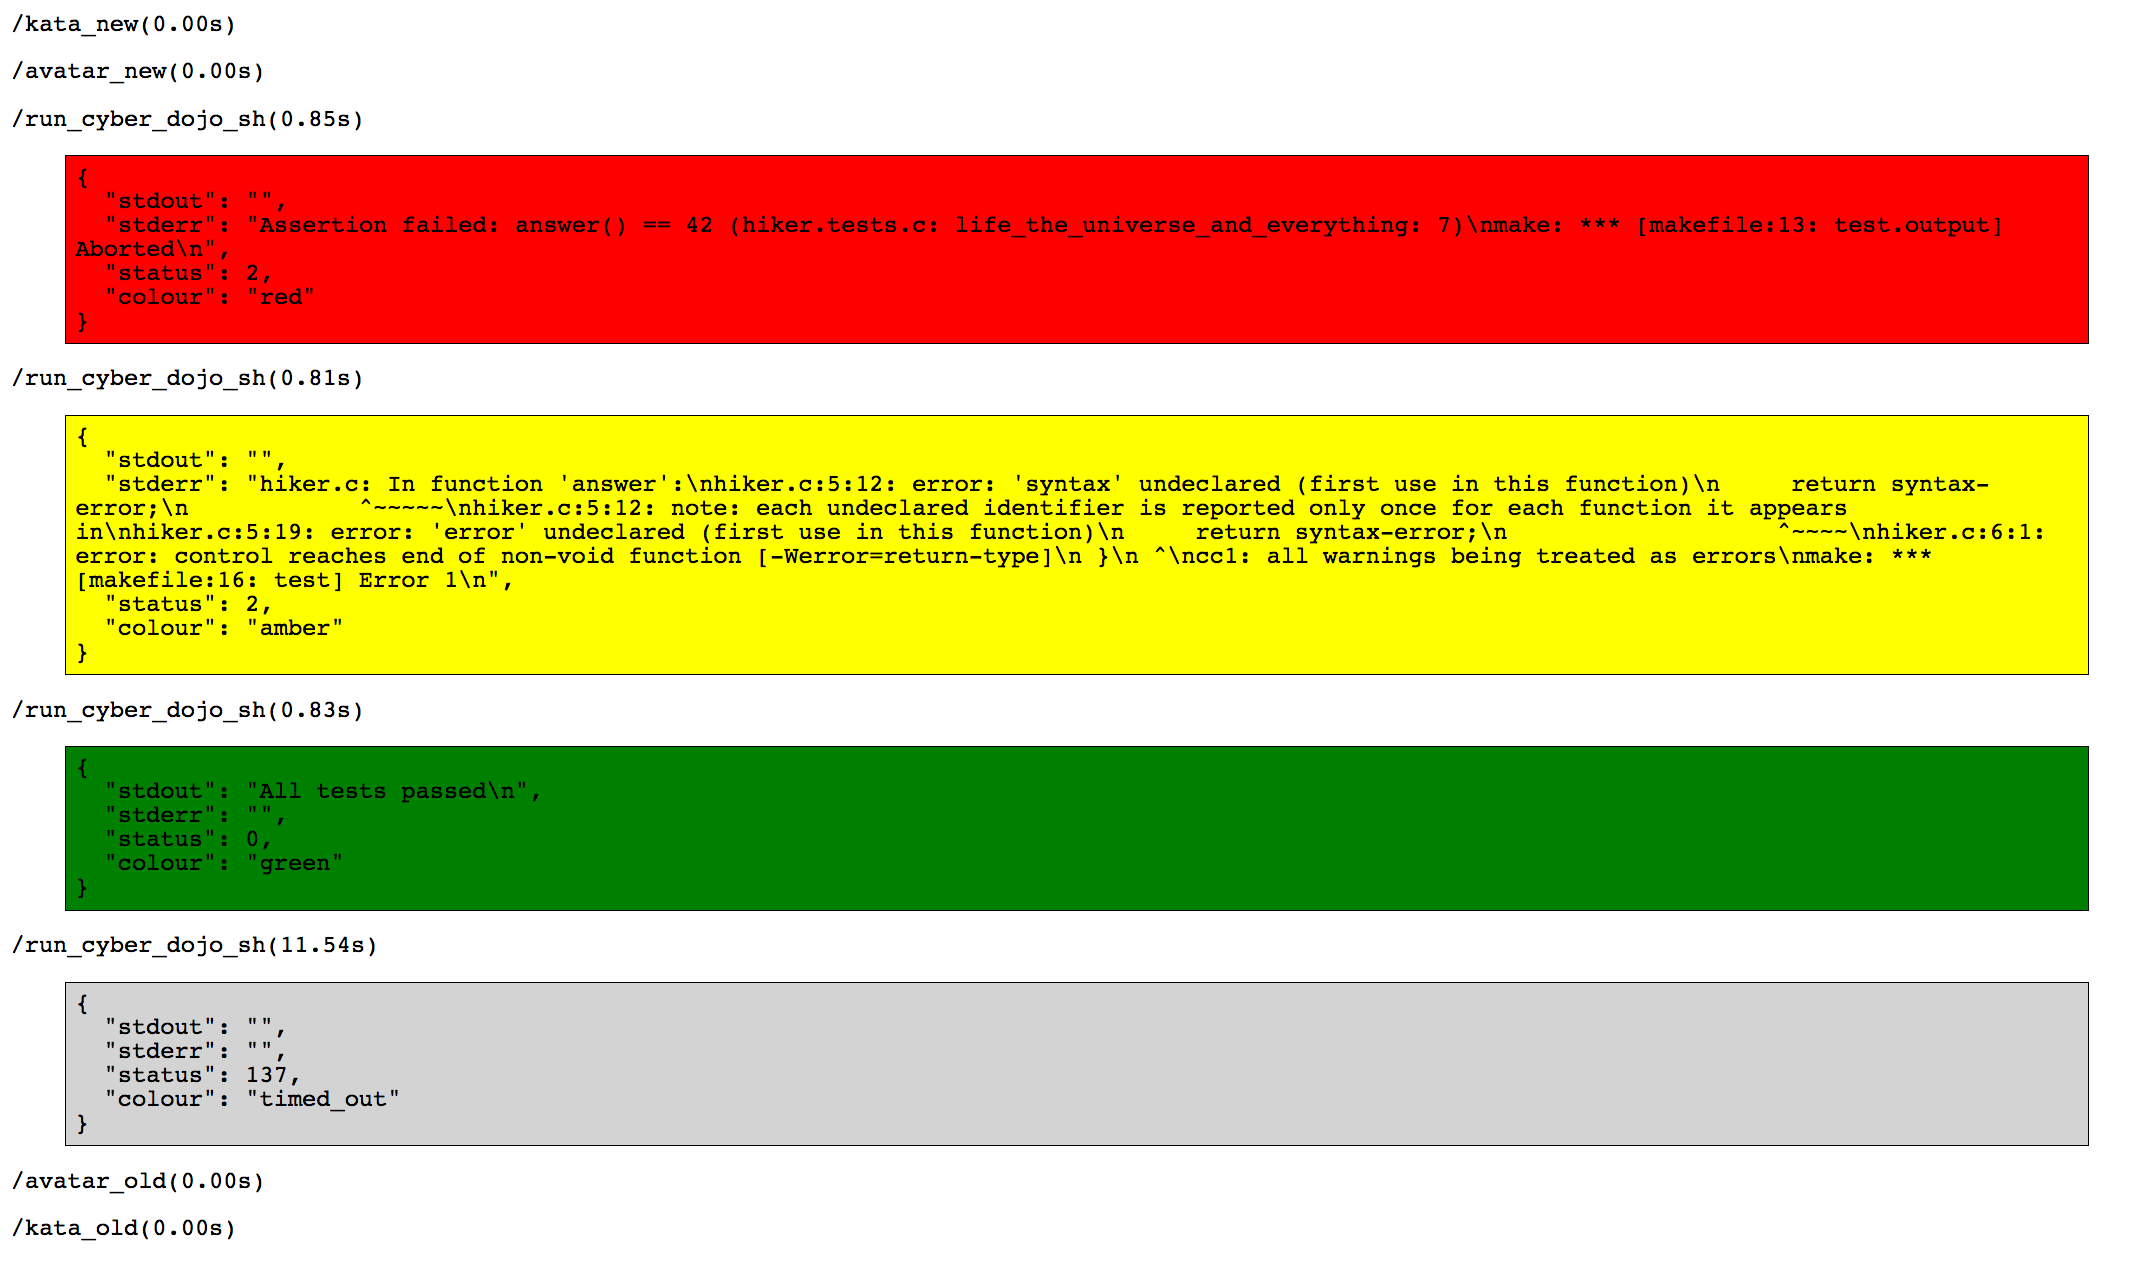
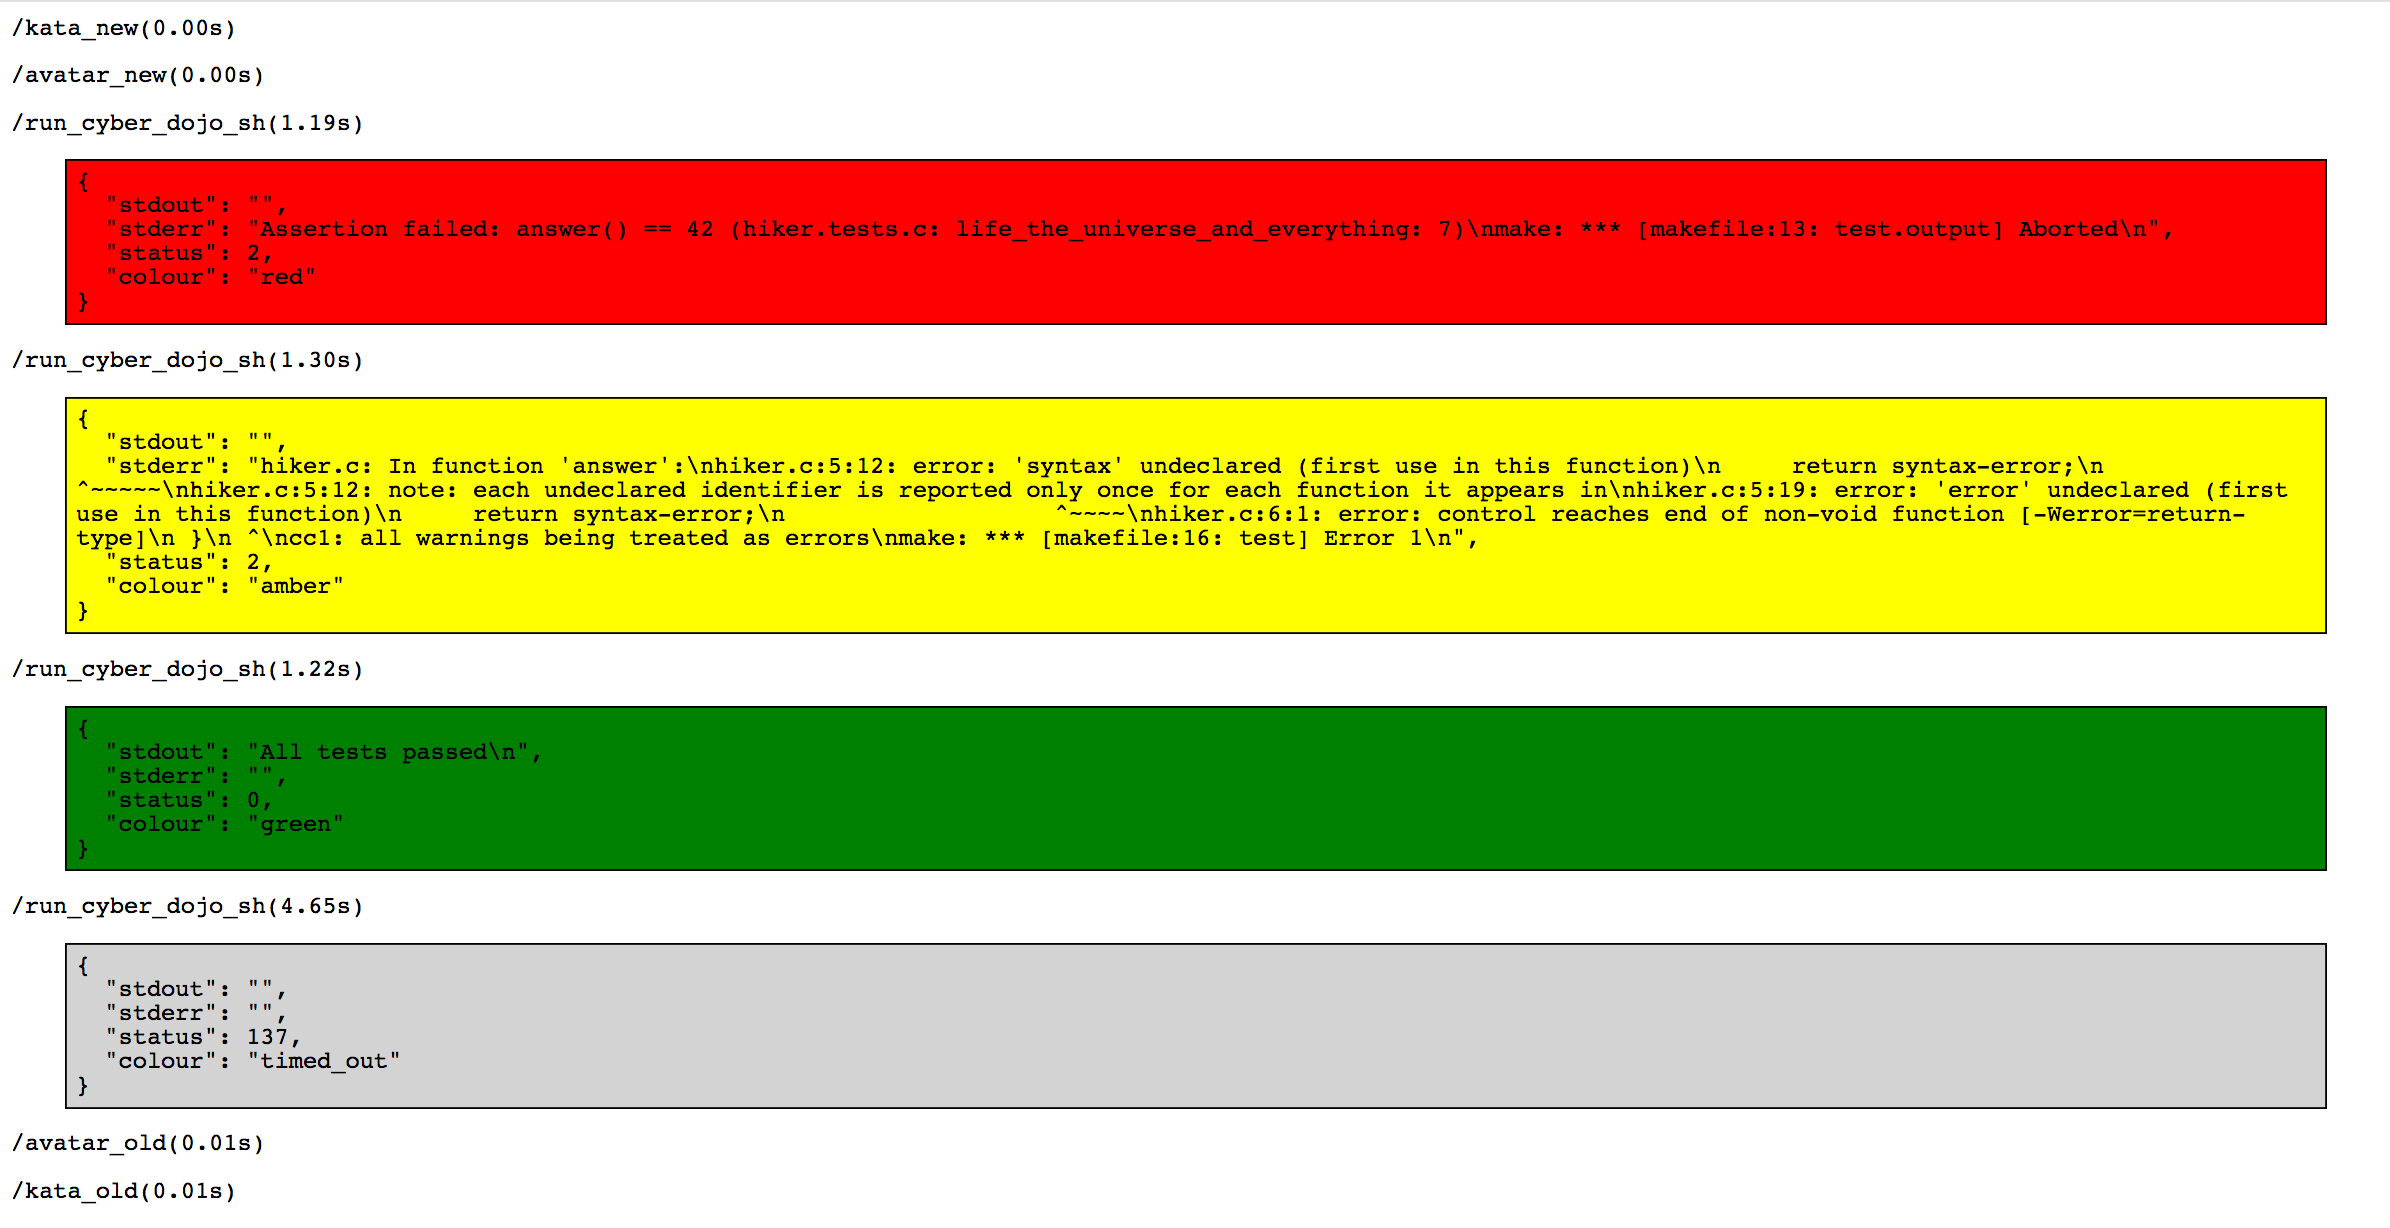
[ci skip] update demo timeout to 3 seconds as per readme

Changed region(s): [[0.0, 0.0, 0.9954, 0.9902], [0.9643, 0.7736, 0.9954, 0.8974]]

diff --git a/client/src/demo.rb b/client/src/demo.rb
@@ -80,7 +80,7 @@ class Demo
 
   def time_out
     change('hiker.c', hiker_c.sub('return', "for(;;);\n return"))
-    run_cyber_dojo_sh('LightGray')
+    run_cyber_dojo_sh('LightGray', 3)
   end
 
   def change(filename, content)
@@ -88,11 +88,11 @@ class Demo
     unchanged_files.delete(filename)
   end
 
-  def run_cyber_dojo_sh(colour)
+  def run_cyber_dojo_sh(colour, max_seconds = 10)
     quad = nil
     args  = [ image_name, kata_id, avatar_name ]
     args += [ new_files, deleted_files, unchanged_files, changed_files ]
-    args << 10
+    args << max_seconds
     duration = timed {
       quad = runner.run_cyber_dojo_sh(*args)
     }
